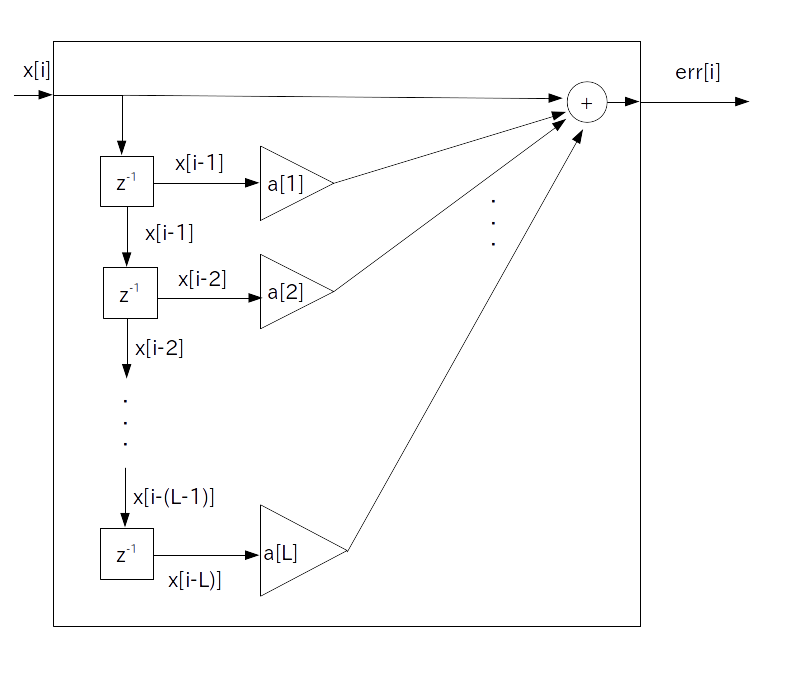
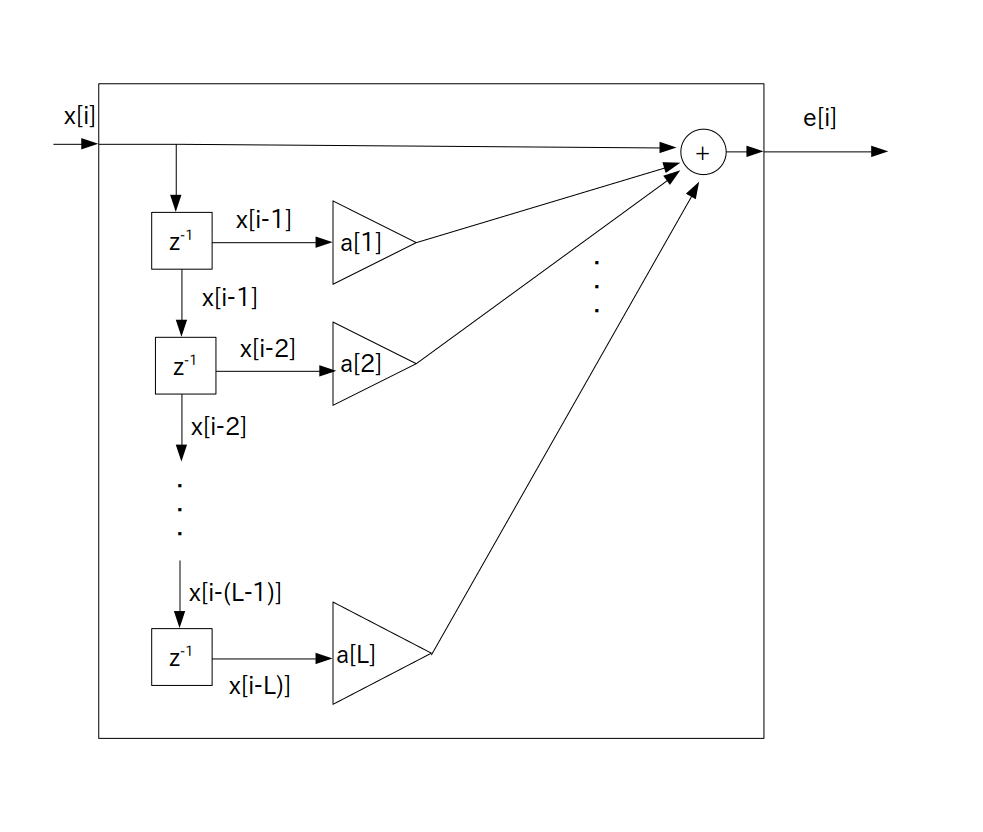
d-filter更新

diff --git a/docs/activity/d-filter/text04/page04.html b/docs/activity/d-filter/text04/page04.html
@@ -21,15 +21,15 @@
 <h2><script>GetTitle()</script></h2>
 
 <p>
-今まで $\textrm{L}$ 個の LPC 係数 $a[1]$ 〜 $a[\textrm{L}]$ の値は既知であるとしましたが、実際には未知数ですので、次に示す<b>正規方程式</b>または<b>Yule-Walker 方程式</b>を解くことによって値を推定します(※)。
+今まで $\textrm{L}$ 個の LPC 係数 $a[1]$ 〜 $a[\textrm{L}]$ の値は既知であるとしましたが、実際には未知数ですので、次に示す<b>正規方程式</b>または<b>Yule-Walker 方程式</b>を解くことによって LPC 係数の値を推定します。
 </p>
 
 <p>
-※ Yule-Walker 推定値と呼び、AR モデルにおいてディジタル信号 $x[0]$ 〜 $x[\textrm{N}-1]$ が実現値として与えた時の LPC 係数の最尤推定値になります。
+※ この推定値のことを<b>Yule-Walker 推定値</b>と呼びます。ディジタル信号 $x[0]$ 〜 $x[\textrm{N}-1]$ が実現値として与えられた時の LPC 係数の<a href="https://ja.wikipedia.org/wiki/%E6%9C%80%E5%B0%A4%E6%8E%A8%E5%AE%9A">最尤推定値</a>になります。
 </p>
 
 <p>
-なお次数 $\textrm{L}$ も未知なので本当ならば AIC 等の方法を用いて決定する必要がありますが、今回は $\textrm{L}$ は既知であるとします。
+なお次数 $\textrm{L}$ も未知なので本当ならば <a href="https://ja.wikipedia.org/wiki/%E8%B5%A4%E6%B1%A0%E6%83%85%E5%A0%B1%E9%87%8F%E8%A6%8F%E6%BA%96">AIC</a> 等の方法を用いて決定する必要がありますが、今回は $\textrm{L}$ は既知であるとします。
 </p>
 
 <div class="info">
@@ -42,8 +42,8 @@
 \[
 \begin{array}{rrrrrc}
 R[0]\cdot a[1] & +R[1]\cdot a[2] & +R[2]\cdot a[3] & +\cdots & +R[\textrm{L}-1]\cdot a[\textrm{L}] & =-R[1] \\
-R[1]\cdot a[1] & +R[0]\cdot a[1] & +R[1]\cdot a[3] & +\cdots & +R[\textrm{L}-2]\cdot a[\textrm{L}] & =-R[2] \\
-R[2]\cdot a[1] & +R[1]\cdot a[1] & +R[0]\cdot a[3] & +\cdots & +R[\textrm{L}-3]\cdot a[\textrm{L}] & =-R[3] \\
+R[1]\cdot a[1] & +R[0]\cdot a[2] & +R[1]\cdot a[3] & +\cdots & +R[\textrm{L}-2]\cdot a[\textrm{L}] & =-R[2] \\
+R[2]\cdot a[1] & +R[1]\cdot a[2] & +R[0]\cdot a[3] & +\cdots & +R[\textrm{L}-3]\cdot a[\textrm{L}] & =-R[3] \\
  &  & \vdots &  &  &  \\
 R[\textrm{L}-1]\cdot a[1] & +R[\textrm{L}-2]\cdot a[2] & +R[\textrm{L}-3]\cdot a[3] & +\cdots & +R[0]\cdot a[\textrm{L}] & =-R[\textrm{L}] \\
 \end{array}
@@ -60,19 +60,17 @@ $R[n]$ ・・・ $x[i]$ の<a href="../../acr/">(標本)自己相関関数</a>
 </div>
 
 <p>
-さて正規方程式はただの連立方程式なのでガウス消去法などのアルゴリズムを使って解くことが出来ます。
+さて正規方程式はただの連立方程式なので<a href="https://ja.wikipedia.org/wiki/%E3%82%AC%E3%82%A6%E3%82%B9%E3%81%AE%E6%B6%88%E5%8E%BB%E6%B3%95">ガウス消去法</a>などのアルゴリズムを使って解くことが出来ます。
 </p>
 
 <p>
 ただし正規方程式は<b>テプリッツ(Toeplitz)行列</b>という特殊な形をしているので、次に示す<b>レビンソン・ダービン(Levinson-Durbin)・アルゴリズム</b>を使って高速に計算することが可能です。
 <br>
-さらにレビンソン・ダービン・アルゴリズムは計算途中で<b>PARCOR(パーコール)係数</b>と呼ばれる重要なパラメータも同時に計算してくれるというメリットがあります(※)。
+さらにレビンソン・ダービン・アルゴリズムは計算途中で<b>PARCOR(パーコール)係数</b>と呼ばれる重要なパラメータも同時に計算してくれるというメリットがあります。
 </p>
 
 <p>
-※ PARCOR係数は「偏自己相関係数」とも呼び、 $f[i]$ と $f[i+n]$ から $f[i+1], \cdots, f[i+n-1]$ の影響を取り除いた後の$f[i]$ と $f[i+n]$ の間の自己相関を意味します。
-<br>
-今回のアクティビティではPARCOR係数について詳しくは取り扱わないので、興味のある人は自学自習して下さい。
+※ PARCOR係数は「偏自己相関係数」とも呼び、 $x[i]$ と $x[i+n]$ から $x[i+1], \cdots, x[i+n-1]$ の影響を取り除いた後の $x[i]$ と $x[i+n]$ の間の自己相関を意味します。
 </p>
 
 <div class="info">

diff --git a/docs/activity/d-filter/text04/page03.html b/docs/activity/d-filter/text04/page03.html
@@ -21,9 +21,9 @@
 <h2><script>GetTitle()</script></h2>
 
 <p>
-<a href="./page02.html">前ページ</a>で示した線形予測誤差の定義式を以下の式の様に変形してみます。
+次に<a href="./page02.html">前ページ</a>で示した線形予測誤差の定義式を以下の式の様に変形してみます。
 <br>
-この式の事を「<b>$\textrm{L}$ 次 AR モデル</b>」( Auto-Regressive model : <b>自己回帰モデル</b>)と呼び、記号では AR(L) で表します。
+この式の事を「<b>$\textrm{L}$ 次 AR モデル</b>」( Auto-Regressive model : <a href="https://ja.wikipedia.org/wiki/%E8%87%AA%E5%B7%B1%E5%9B%9E%E5%B8%B0%E3%83%A2%E3%83%87%E3%83%AB">自己回帰モデル</a>)と呼び、記号 AR(L) で表します。
 </p>
 
 <div class="info">
@@ -35,8 +35,8 @@
 
 \begin{align*}
 x[i]
-& = -\sum_{n=1}^{\textrm{L}} \{ a[n] \cdot x[i-n] \} \} + err[i] \\
-& = -a[1] \cdot x[i-1] -a[2] \cdot x[i-2] - \cdots -a[\textrm{L}] \cdot x[i-\textrm{L}] + err[i] \\
+& = -\sum_{n=1}^{\textrm{L}} \{ a[n] \cdot x[i-n] \} \} + e[i] \\
+& = -a[1] \cdot x[i-1] -a[2] \cdot x[i-2] - \cdots -a[\textrm{L}] \cdot x[i-\textrm{L}] + e[i] \\
 \end{align*}
 
 <p>
@@ -46,23 +46,37 @@ $a[n]$ ・・・ LPC 係数
 </div>
 
 <p>
-ただし線形予測誤差とは異なり、AR モデルでは <b>$err[i]$ を任意のホワイトノイズとみなし</b>、$x[i]$ は $err[i]$ を入力信号とした時の <a href="../text03/page01.html">IIR フィルタ</a>の出力信号であるとみなします。
+ただし AR モデルでは線形予測誤差 $e[i]$ を正規分布などの<b>任意のホワイトノイズ</b>に置き換えます。
+<br>
+すると観測データ $x[i]$ は<b>確率変数</b>に変わるのでサンプリング毎に異なる値が出てくる様になります。
 </p>
 
 <p>
-つまり AR モデルは次のブロック図で表されます。
+※1 線形予測誤差をホワイトノイズに置き換えるのは強引ではないのかと思うかもしれませんがモデル化の世界では割とポピュラーな手法です。ただし検定などをしてモデルの当てはまり具合を調べる必要があります。
+</p>
+<p>
+※2 「$x[0]$ から $x[\textrm{N}-1]$ まで $\textrm{N}$ 個分だけ観測データとして手に入れた」と<a href="./page01.html">1 ページ目</a>で書きましたが、AR モデルではこれらの観測データは確率変動しない静的なデータではなくて、ある確率に従ってたまたま出力された<b>実現値</b>であるとみなします。
 </p>
 
+
+
+<p>
+さて AR モデルは次の<a href="../text03/page01.html">IIR フィルタ</a>で表されます。
+</p>
 
 <div class="info">
 <input type="checkbox"><b> $\textrm{L}$ 次 AR モデル AR(L) のブロック図: </b>
 
 <p>
-$err[i]$ は任意のホワイトノイズとする
+$e[i]$ は任意のホワイトノイズとする
 </p>
 
-<img src="./img/page04-fig1.png" alt="">
+<img src="./img/page03-fig1.png" alt="">
 </div>
+
+<p>
+要するにホワイトノイズ $e[i]$ を入力すると確率変数 $x[i]$ が出力される IIR フィルタとなります。
+</p>
 
 <br>
 <script>PreNext(3,4)</script>

diff --git a/docs/activity/d-filter/text04/page02.html b/docs/activity/d-filter/text04/page02.html
@@ -21,13 +21,13 @@
 <h2><script>GetTitle()</script></h2>
 
 <p>
-<a href="./page01.html">前ページ</a>で $x[i]$ の予測値 $\hat{x}[i]$ を求めましたので、次は真の値と予測値の誤差について考えましよう。
+<a href="./page01.html">前ページ</a>で入力値 $x[i]$ の予測値 $\hat{x}[i]$ を求めましたので、次は $x[i]$ と $\hat{x}[i]$ の誤差について考えましよう。
 <br>
 その誤差のことを「<b>線形予測誤差</b>」または「<b>線形予測残差</b>」などといいます。
 </p>
 
 <p>
-時刻 $i$ における線形予測誤差を記号 $err[i]$ で表すことにすると、$err[i]$ は次の計算式で求められます。
+時刻 $i$ における線形予測誤差を記号 $e[i]$ で表すことにすると、$e[i]$ は次の計算式で求められます。
 
 
 <div class="info">
@@ -38,7 +38,7 @@
 </p>
 
 \begin{align*}
-err[i] 
+e[i] 
 & = x[i] - \hat{x}[i] \\
 & = x[i] + \sum_{n=1}^{\textrm{L}} \{ a[n] \cdot x[i-n] \} \} \\
 \end{align*}
@@ -74,6 +74,11 @@ $a[n]$ ・・・ LPC 係数
 <img src="./img/page02-fig1.png" alt="">
 
 </div>
+
+<p>
+要するに $x[i]$ を入力すると線形予測誤差 $e[i]$ が出力される FIR フィルタになります。
+</p>
+
 
 <br>
 <script>PreNext(2,4)</script>

diff --git a/docs/activity/d-filter/index.html b/docs/activity/d-filter/index.html
@@ -19,7 +19,7 @@
 <h1><script>GetTitle()</script></h1>
 
 <p>
-最終更新日: 2021/10/11
+最終更新日: 2021/10/23
 </p>
 
 <div class="info">
